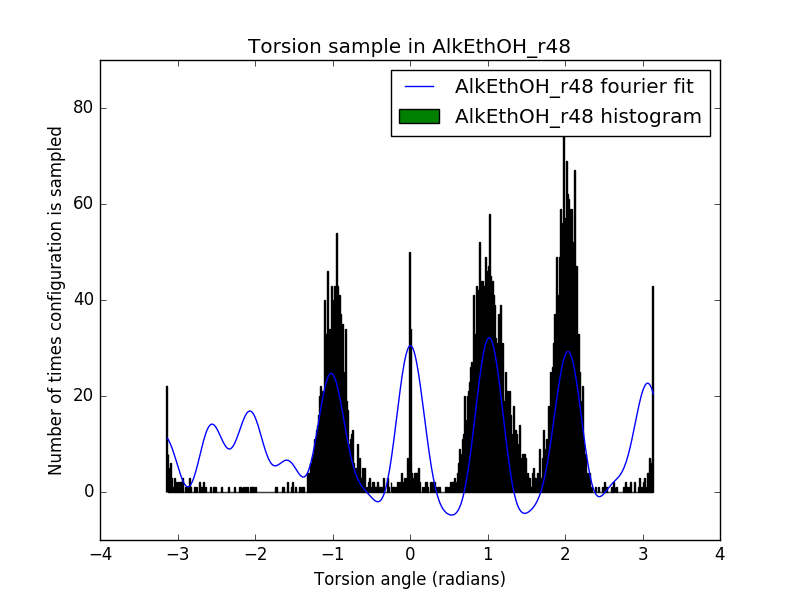
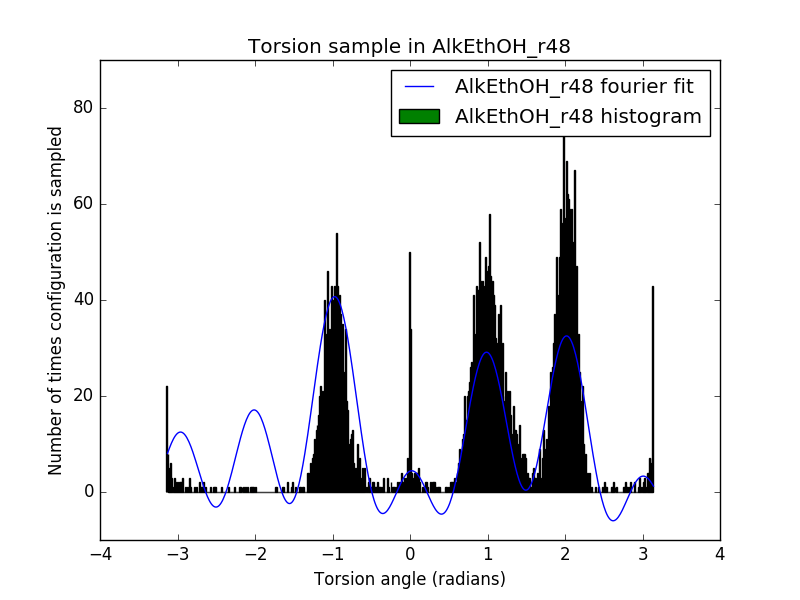
increase amp

diff --git a/single-molecule-property-generation/least_squares_fit_example.py b/single-molecule-property-generation/least_squares_fit_example.py
@@ -513,7 +513,7 @@ plt.figure()
 #	if j==0.:
 #           n1[i]=5.
 
-popt, pcov = sci.curve_fit(fourier, bins1[1:], n1, [7.0,2.0,0.0]*3 + [5.0], maxfev=100000)
+popt, pcov = sci.curve_fit(fourier, bins1[1:], n1, [12.0,3.0,0.0]*3 + [5.0], maxfev=100000)
 plt.plot(bins1[1:],fourier(bins1[1:],*popt),label='AlkEthOH_r48 fourier fit')
 plt.ylabel('Number of times configuration is sampled')
 plt.xlabel('Torsion angle (radians)')
